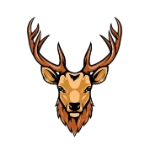
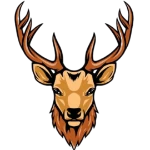
Залил нормальные аватарки и подправил таблицы статистику по танку

Changed region(s): [[0.08, 0.0, 0.9067, 1.0]]

diff --git a/src/app/components/features/player/player-tanks-host/player-tank-details/player-tank-details.component.html b/src/app/components/features/player/player-tanks-host/player-tank-details/player-tank-details.component.html
@@ -35,7 +35,7 @@
 
     <div class="stats-tables">
       <div class="stats-table-container">
-        <h3 class="stats-table__title">Общие показатели</h3>
+        <h3 class="stats-table__title">{{ 'TANK_STATS.GENERAL_STATS' | translate }}</h3>
         <mat-table [dataSource]="generalStats()" class="stats-table mat-elevation-z2">
           <ng-container matColumnDef="name">
             <mat-cell *matCellDef="let stat" class="stats-table__name">{{ stat.name | translate }}</mat-cell>
@@ -48,7 +48,7 @@
       </div>
 
       <div class="stats-table-container">
-        <h3 class="stats-table__title">Средние показатели за бой</h3>
+        <h3 class="stats-table__title">{{ 'TANK_STATS.AVERAGE_STATS_PER_BATTLE' | translate }}</h3>
         <mat-table [dataSource]="averageStats()" class="stats-table mat-elevation-z2">
           <ng-container matColumnDef="name">
             <mat-cell *matCellDef="let stat" class="stats-table__name">{{ stat.name | translate }}</mat-cell>

diff --git a/src/app/app.component.ts b/src/app/app.component.ts
@@ -1,13 +1,20 @@
-import {Component} from '@angular/core';
+import {Component, inject, OnInit} from '@angular/core';
 import {HeaderComponent} from './components/layouts/header/header.component';
-import {FooterComponent} from './components/layouts/footer/footer.component';
+import {VisitTrackerService} from './shared/services/visit-tracker.service';
 
 @Component({
   selector: 'app-root',
   standalone: true,
-  imports: [HeaderComponent, FooterComponent],
+  imports: [HeaderComponent],
   templateUrl: './app.component.html',
   styleUrl: './app.component.scss'
 })
-export class AppComponent {
+export class AppComponent implements OnInit {
+
+  private visitTracker = inject(VisitTrackerService);
+
+  ngOnInit() {
+    void this.visitTracker.logVisit();
+  }
+
 }

diff --git a/src/app/shared/services/visit-tracker.service.ts b/src/app/shared/services/visit-tracker.service.ts
@@ -1,0 +1,22 @@
+import {inject, Injectable} from '@angular/core';
+import {doc, Firestore, increment, serverTimestamp, setDoc, updateDoc} from '@angular/fire/firestore';
+
+@Injectable({providedIn: 'root'})
+export class VisitTrackerService {
+  private firestore = inject(Firestore);
+
+  async logVisit(): Promise<void> {
+    const ref = doc(this.firestore, 'stats/visits');
+    try {
+      await updateDoc(ref, {
+        count: increment(1),
+        lastVisit: serverTimestamp()
+      });
+    } catch (err) {
+      await setDoc(ref, {
+        count: 1,
+        lastVisit: serverTimestamp()
+      });
+    }
+  }
+}

diff --git a/src/app/components/features/home/home.component.html b/src/app/components/features/home/home.component.html
@@ -37,7 +37,7 @@
                     d="M19.615 3.184a3.01 3.01 0 0 1 2.121 2.13C22 6.832 22 12 22 12s0 5.168-.264 6.686a3.01 3.01 0 0 1-2.121 2.13C17.992 21.25 12 21.25 12 21.25s-5.992 0-7.615-.434a3.01 3.01 0 0 1-2.121-2.13C2 17.168 2 12 2 12s0-5.168.264-6.686a3.01 3.01 0 0 1 2.121-2.13C6.008 2.75 12 2.75 12 2.75s5.992 0 7.615.434zM10 8.75v6.5l5.75-3.25L10 8.75z"/>
                 </svg>
               </div>
-              <span class="contact-text">Youtube</span>
+              <span class="contact-text">YouTube</span>
             </div>
 
             <div class="contact contact--telegram">

diff --git a/src/app/components/features/player/player-tanks-host/player-tank-details/player-tank-details.component.scss b/src/app/components/features/player/player-tanks-host/player-tank-details/player-tank-details.component.scss
@@ -201,6 +201,7 @@
     &-tables {
       width: 100%;
       display: grid;
+      align-items: start;
       @include lg-min {
         gap: $gap-x2;
         grid-template-columns: repeat(2, 1fr);
@@ -209,11 +210,13 @@
         gap: $gap;
         grid-template-columns: 1fr;
       }
-      align-items: center;
       justify-content: center;
     }
 
     &-table {
+      &-container {
+        align-content: start;
+      }
 
       &__title {
         text-align: center;
@@ -236,7 +239,6 @@
 
   .mat-mdc-table {
     width: 100%;
-
   }
 
 

diff --git a/src/app/components/features/home/home.component.scss b/src/app/components/features/home/home.component.scss
@@ -182,7 +182,7 @@
 .partners {
   &-grid {
     display: grid;
-    align-items: center;
+    align-items: start;
     justify-content: space-evenly;
     @include lg-min {
       grid-template-columns: repeat(3, 250px);
